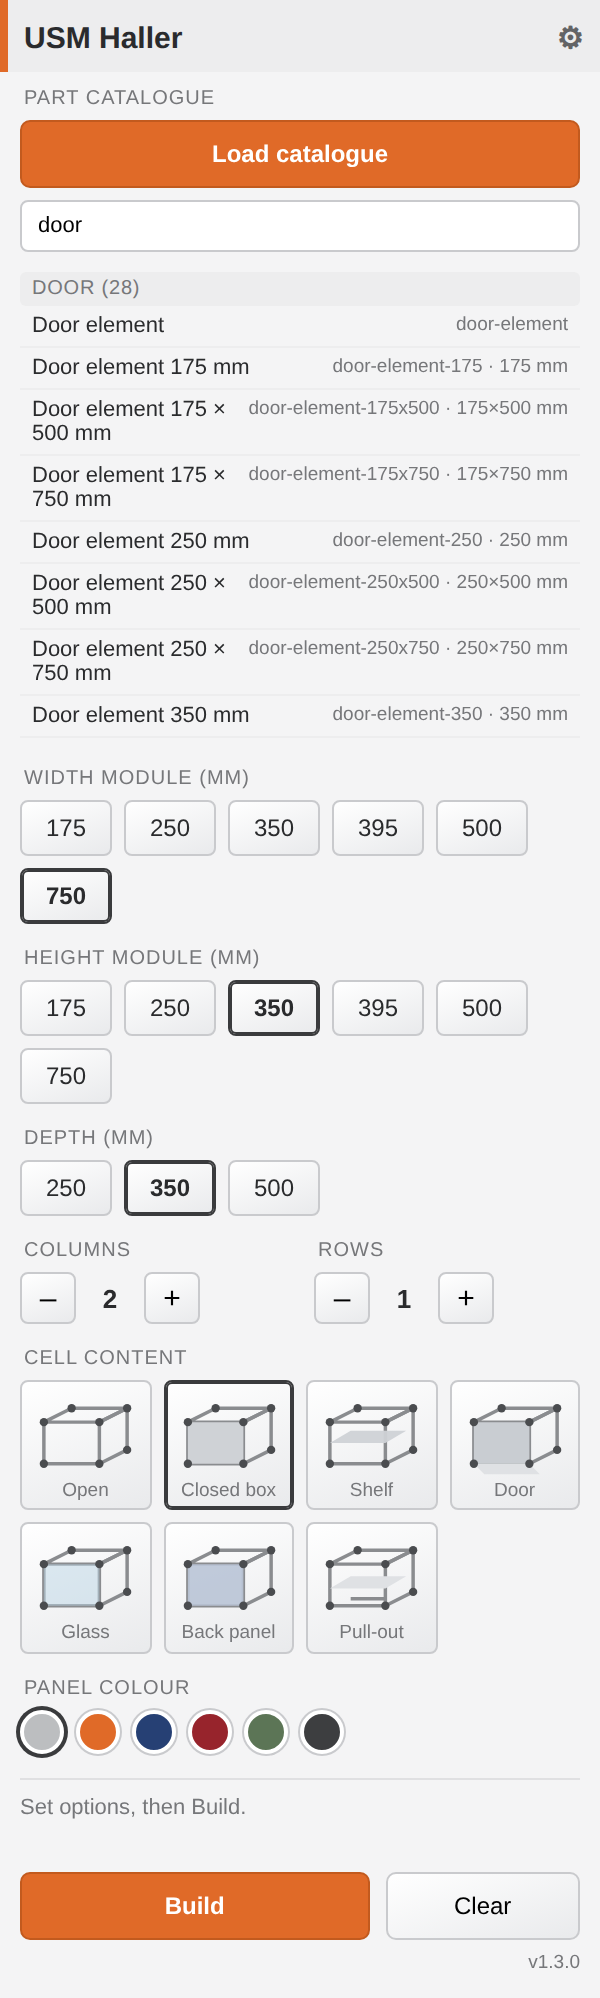
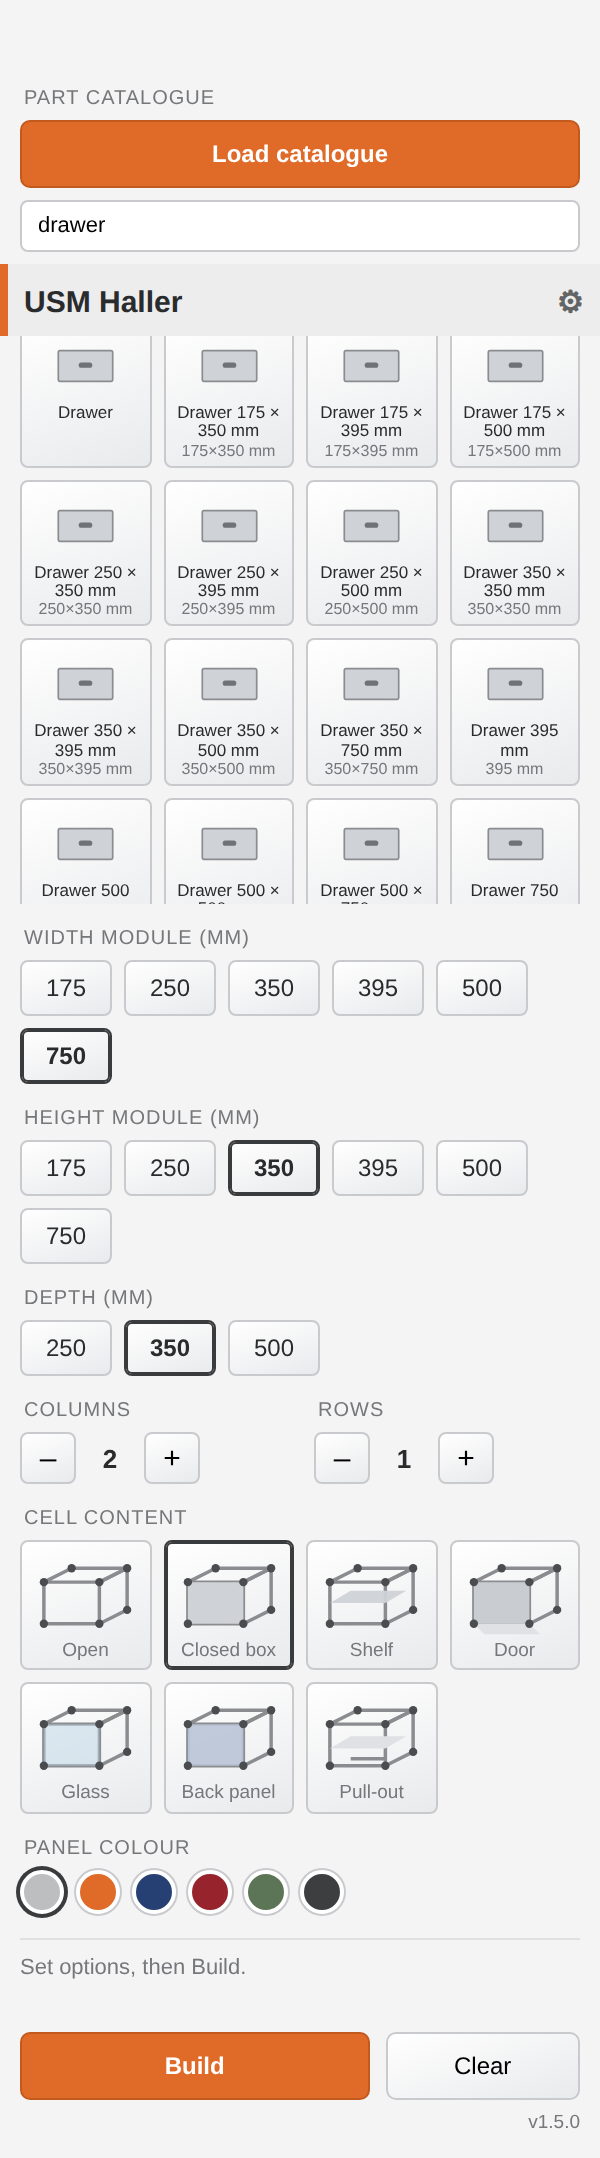
Render the part catalogue as a visual tile toolbox
The catalogue browser is now a grid of clickable part tiles (own per-family
SVG icons + label + dims), grouped by family, matching the USM Haller toolbox
layout — instead of a plain text list. Filtering still applies. Each tile
places its part on click.

Claude-Session: https://claude.ai/code/session_018scoz6DpPxKQc9VjhadMBk

diff --git a/UsmConfigurator/resources/palette/main.js b/UsmConfigurator/resources/palette/main.js
@@ -30,6 +30,21 @@
     panel: frame('<path d="M8 16 L40 16 L40 40 L8 40 Z" fill="#b9c4d6" opacity="0.9"/>'),
   };
 
+  // Own, simple part icons per family for the catalogue toolbox (not the USM artwork).
+  function ico(inner) { return '<svg viewBox="0 0 48 40">' + inner + '</svg>'; }
+  var FAMILY_ICON = {
+    connector: ico('<circle cx="24" cy="20" r="8" fill="#9aa0a6"/><g stroke="#9aa0a6" stroke-width="3"><path d="M24 20 L10 12"/><path d="M24 20 L38 12"/><path d="M24 20 L24 34"/></g>'),
+    tube: ico('<rect x="6" y="17" width="36" height="6" rx="3" fill="#9aa0a6"/><circle cx="6" cy="20" r="3" fill="#6e7378"/><circle cx="42" cy="20" r="3" fill="#6e7378"/>'),
+    panel: ico('<rect x="9" y="7" width="30" height="26" rx="1" fill="#c2c6cb" stroke="#8a8c8f"/>'),
+    door: ico('<rect x="9" y="7" width="30" height="26" rx="1" fill="#cfd2d6" stroke="#8a8c8f"/><circle cx="34" cy="20" r="1.6" fill="#6e7378"/><path d="M12 7 L12 33" stroke="#8a8c8f"/>'),
+    drawer: ico('<rect x="8" y="11" width="32" height="18" rx="1" fill="#cfd2d6" stroke="#8a8c8f"/><rect x="20" y="18" width="8" height="3" rx="1.5" fill="#6e7378"/>'),
+    glass: ico('<rect x="9" y="7" width="30" height="26" rx="1" fill="#bcd6e6" opacity="0.55" stroke="#9bb6c6"/><path d="M13 30 L33 10" stroke="#dff0fa" stroke-width="2"/>'),
+    fitting: ico('<path d="M14 10 L14 30 L30 30" fill="none" stroke="#9aa0a6" stroke-width="4"/><circle cx="14" cy="10" r="3" fill="#6e7378"/>'),
+    hardware: ico('<circle cx="24" cy="20" r="7" fill="none" stroke="#9aa0a6" stroke-width="3"/><path d="M24 13 L24 8 M24 27 L24 32 M17 20 L12 20 M31 20 L36 20" stroke="#9aa0a6" stroke-width="3"/>'),
+    other: ico('<rect x="10" y="10" width="28" height="20" rx="1" fill="#d3d6da" stroke="#8a8c8f"/>'),
+  };
+  function familyIcon(f) { return FAMILY_ICON[f] || FAMILY_ICON.other; }
+
   var state = {
     width: 750, height: 350, depth: 350, cols: 2, rows: 1,
     cell: "closed", color: "USM Matte Silver",
@@ -81,16 +96,19 @@
     if (!fams.length) { host.appendChild(el("div", "muted", catalogParts.length ? "No matches." : "")); return; }
     fams.forEach(function (fam) {
       host.appendChild(el("div", "catgroup", fam + " (" + groups[fam].length + ")"));
+      var grid = el("div", "cattiles");
       groups[fam].forEach(function (p) {
-        var dims = (p.dims && p.dims.length) ? " · " + p.dims.join("×") + " mm" : "";
-        var row = el("div", "catrow", "<span>" + p.label + "</span><span class='catid'>" + p.part + dims + "</span>");
-        row.title = "Click to place in Fusion";
-        row.onclick = function () {
+        var dims = (p.dims && p.dims.length) ? p.dims.join("×") : "";
+        var tile = el("div", "cattile", familyIcon(p.family) +
+          '<div class="cap">' + p.label + "</div>" + (dims ? '<div class="dim">' + dims + " mm</div>" : ""));
+        tile.title = p.part + " — click to place in Fusion";
+        tile.onclick = function () {
           setStatus("Placing " + p.label + "…");
           sendData("place_part", { part: p.part, family: p.family, dims: p.dims, render: { color: state.color } });
         };
-        host.appendChild(row);
+        grid.appendChild(tile);
       });
+      host.appendChild(grid);
     });
   }
 

diff --git a/UsmConfigurator/resources/palette/style.css b/UsmConfigurator/resources/palette/style.css
@@ -141,19 +141,25 @@ footer {
   box-sizing: border-box;
 }
 .catfilter.hidden { display: none; }
-.catalog { max-height: 240px; overflow-y: auto; }
+.catalog { max-height: 320px; overflow-y: auto; }
 .catgroup {
   font-size: 10px; text-transform: uppercase; letter-spacing: 0.04em;
-  color: var(--muted); background: #ededee; padding: 3px 6px; margin-top: 4px;
-  border-radius: 3px; position: sticky; top: 0;
+  color: var(--muted); background: #ededee; padding: 3px 6px; margin: 6px 0 5px;
+  border-radius: 3px; position: sticky; top: 0; z-index: 1;
 }
-.catrow {
-  display: flex; justify-content: space-between; gap: 8px;
-  padding: 4px 6px; border-bottom: 1px solid #ededee; font-size: 11px;
-  cursor: pointer;
+.cattiles { display: grid; grid-template-columns: repeat(4, 1fr); gap: 6px; }
+.cattile {
+  background: var(--tile-grad); border: 1px solid var(--line); border-radius: 4px;
+  padding: 5px 3px 3px; cursor: pointer; text-align: center; user-select: none;
+  transition: border-color .08s, box-shadow .08s;
 }
-.catrow:hover { background: #eef1f3; }
-.catrow .catid { color: var(--muted); font-size: 9.5px; text-align: right; white-space: nowrap; }
+.cattile:hover { border-color: var(--line-sel); box-shadow: inset 0 0 0 1px var(--line-sel); }
+.cattile svg { width: 100%; height: 34px; display: block; }
+.cattile .cap {
+  font-size: 8.5px; line-height: 1.1; color: var(--ink); margin-top: 2px;
+  overflow: hidden; display: -webkit-box; -webkit-line-clamp: 2; -webkit-box-orient: vertical;
+}
+.cattile .dim { font-size: 8px; color: var(--muted); }
 .muted { color: var(--muted); font-size: 11px; padding: 4px 6px; }
 .actions { display: flex; gap: 8px; }
 button.primary, #clear {